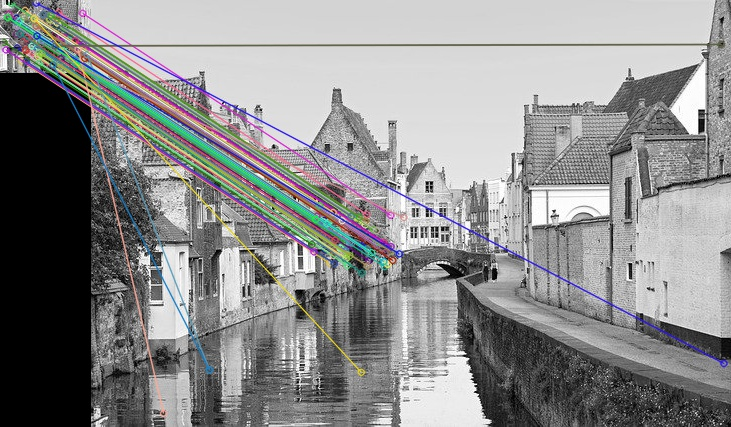
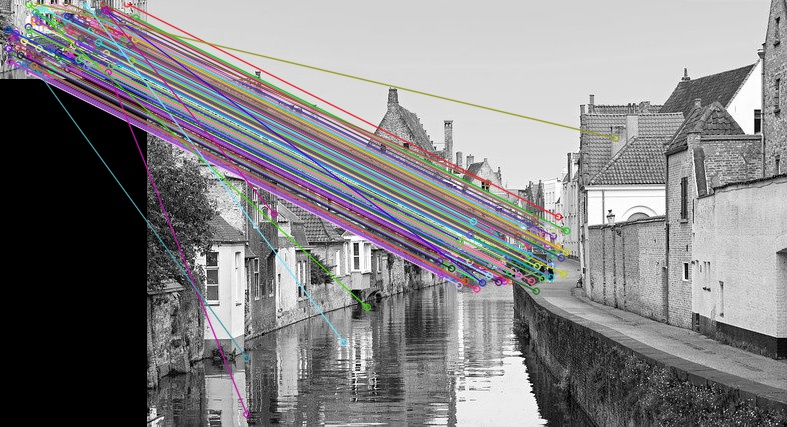
Feat: Fix bruteForce function in c3_featureMatching.py

diff --git a/opencv/machineLearning/c3_featureMatching.py b/opencv/machineLearning/c3_featureMatching.py
@@ -42,12 +42,12 @@ def bruteForce(img1, img2):
             img2KP = np.float32([keyP2[m.queryIdx].pt for m in good]).reshape(-1, 1, 2)
             _m, mask = cv2.findHomography(img1KP, img2KP, cv2.RANSAC, 5.0)
             ransacMask = mask.ravel().tolist()
-# drawParmas
-            resKnn = cv2.drawMatchesKnn(img1, keyP1, img2, keyP2, [good], None, flags=flag)
-            resKnn2 = cv2.drawMatchesKnn(img1, keyP1, img2, keyP2, good, None, matchColor=(0, 255, 0),
+            drawParams = dict(matchColor=(0, 255, 0),
                               singlePointColor=(0, 0, 255),
                               matchesMask=ransacMask,
                               flags=flag)
+            resKnn = cv2.drawMatchesKnn(img1, keyP1, img2, keyP2, [good], None, flags=flag)
+            resKnn2 = cv2.drawMatches(img1, keyP1, img2, keyP2, good, None, **drawParams)
 
 
 # FLANN 기반 매칭
@@ -125,8 +125,8 @@ def mouse_callback(event, x, y, flags, param):
         cv2.imshow(viewName, imgROI)
 
         roi = cv2.cvtColor(img1[startY:endY, startX:endX], cv2.COLOR_BGR2GRAY)
-        flann(roi, cv2.cvtColor(img1, cv2.COLOR_BGR2GRAY))
         bruteForce(roi, cv2.cvtColor(img1, cv2.COLOR_BGR2GRAY))
+        flann(roi, cv2.cvtColor(img1, cv2.COLOR_BGR2GRAY))
 
 
 # 영상 읽기
